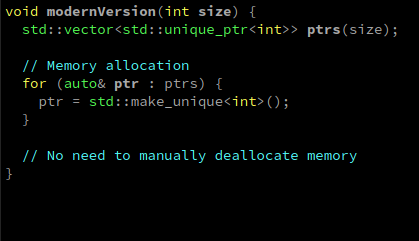
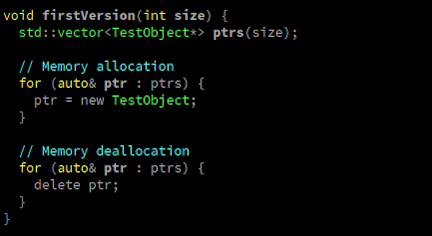
Improved the quality of first tests

diff --git a/src/testingview/TestingView.qml b/src/testingview/TestingView.qml
@@ -23,10 +23,6 @@ Rectangle {
             model: testingViewController.pageModels.length
 
             TestingViewPage {
-                Component.onCompleted: {
-                    console.log(testingViewController.pageModels[index])
-                }
-
                 testID: testingViewController.pageModels[index].testID
                 title: testingViewController.pageModels[index].title
                 firstImageSource: testingViewController.pageModels[index].firstImageSource

diff --git a/src/testingview/testfunctions.h b/src/testingview/testfunctions.h
@@ -1,0 +1,89 @@
+#pragma once
+
+#include <memory>
+#include <vector>
+
+namespace TestUtils {
+
+/** Class which represents basic object used for testing purposes */
+class TestObject {
+public:
+  TestObject() : vec1(1000), vec2(1000) {}
+
+private:
+  std::vector<int> vec1;
+  std::vector<std::string> vec2;
+};
+
+/** Test functions for the test with the ID 'test01' */
+namespace Test01 {
+void firstVersion(int size) {
+  std::vector<TestObject*> ptrs(size);
+
+  // Memory allocation
+  for (auto& ptr : ptrs) {
+    ptr = new TestObject;
+  }
+
+  // Memory deallocation
+  for (auto& ptr : ptrs) {
+    delete ptr;
+  }
+}
+
+void secondVersion(int size) {
+  std::vector<std::unique_ptr<TestObject>> ptrs(size);
+
+  // Memory allocation
+  for (auto& ptr : ptrs) {
+    ptr = std::make_unique<TestObject>();
+  }
+
+  // No need to manually deallocate memory
+}
+} // namespace Test01
+
+/** Test functions for the test with the ID 'test02' */
+namespace Test02 {
+void firstVersion(int size) {
+  std::vector<std::unique_ptr<TestObject>> ptrs(size);
+
+  // Memory allocation
+  for (auto& ptr : ptrs) {
+    ptr = std::make_unique<TestObject>();
+  }
+}
+
+void secondVersion(int size) {
+  std::vector<std::shared_ptr<TestObject>> ptrs(size);
+
+  // Memory allocation
+  for (auto& ptr : ptrs) {
+    ptr = std::make_shared<TestObject>();
+  }
+}
+} // namespace Test02
+
+namespace Test03 {
+void firstVersion(int size) {
+  std::vector<TestObject> objects;
+  objects.reserve(size);
+
+  for (int i = 0; i < size; ++i) {
+    TestObject object;
+    objects.emplace_back(object);
+  }
+}
+
+void secondVersion(int size) {
+  std::vector<TestObject> objects;
+  objects.reserve(size);
+
+  for (int i = 0; i < size; ++i) {
+    TestObject object;
+    objects.emplace_back(std::move(object));
+  }
+}
+} // namespace Test03
+
+} // namespace TestUtils

diff --git a/src/testingview/testingviewcontroller.cpp b/src/testingview/testingviewcontroller.cpp
@@ -1,7 +1,7 @@
 #include "testingviewcontroller.h"
 
 #include "../external/utils/utils.h"
-#include "tests/test01.h"
+#include "testfunctions.h"
 
 #include <QDebug>
 
@@ -18,7 +18,9 @@ const QString TEST_FUNCTIONS_STARTED =
 
 namespace TestID {
 constexpr char TEST_01[] = "test01";
-}
+constexpr char TEST_02[] = "test02";
+constexpr char TEST_03[] = "test03";
+} // namespace TestID
 
 namespace Json {
 constexpr char ID[] = "id";
@@ -86,10 +88,15 @@ void TestingViewController::onTestStarted(const QString& testID, int firstPicker
 }
 
 void TestingViewController::initializeTestFunctions() {
+  using namespace TestUtils;
   for (const auto& pageModel : pageModels) {
     const auto& testID = pageModel.testID;
     if (testID == TestID::TEST_01) {
       testFunctions[testID.toStdString()] = std::make_pair(Test01::firstVersion, Test01::secondVersion);
+    } else if (testID == TestID::TEST_02) {
+      testFunctions[testID.toStdString()] = std::make_pair(Test02::firstVersion, Test02::secondVersion);
+    } else if (testID == TestID::TEST_03) {
+      testFunctions[testID.toStdString()] = std::make_pair(Test03::firstVersion, Test03::secondVersion);
     } else {
       qDebug() << UNHANDLED_TEST.arg(testID);
     }
